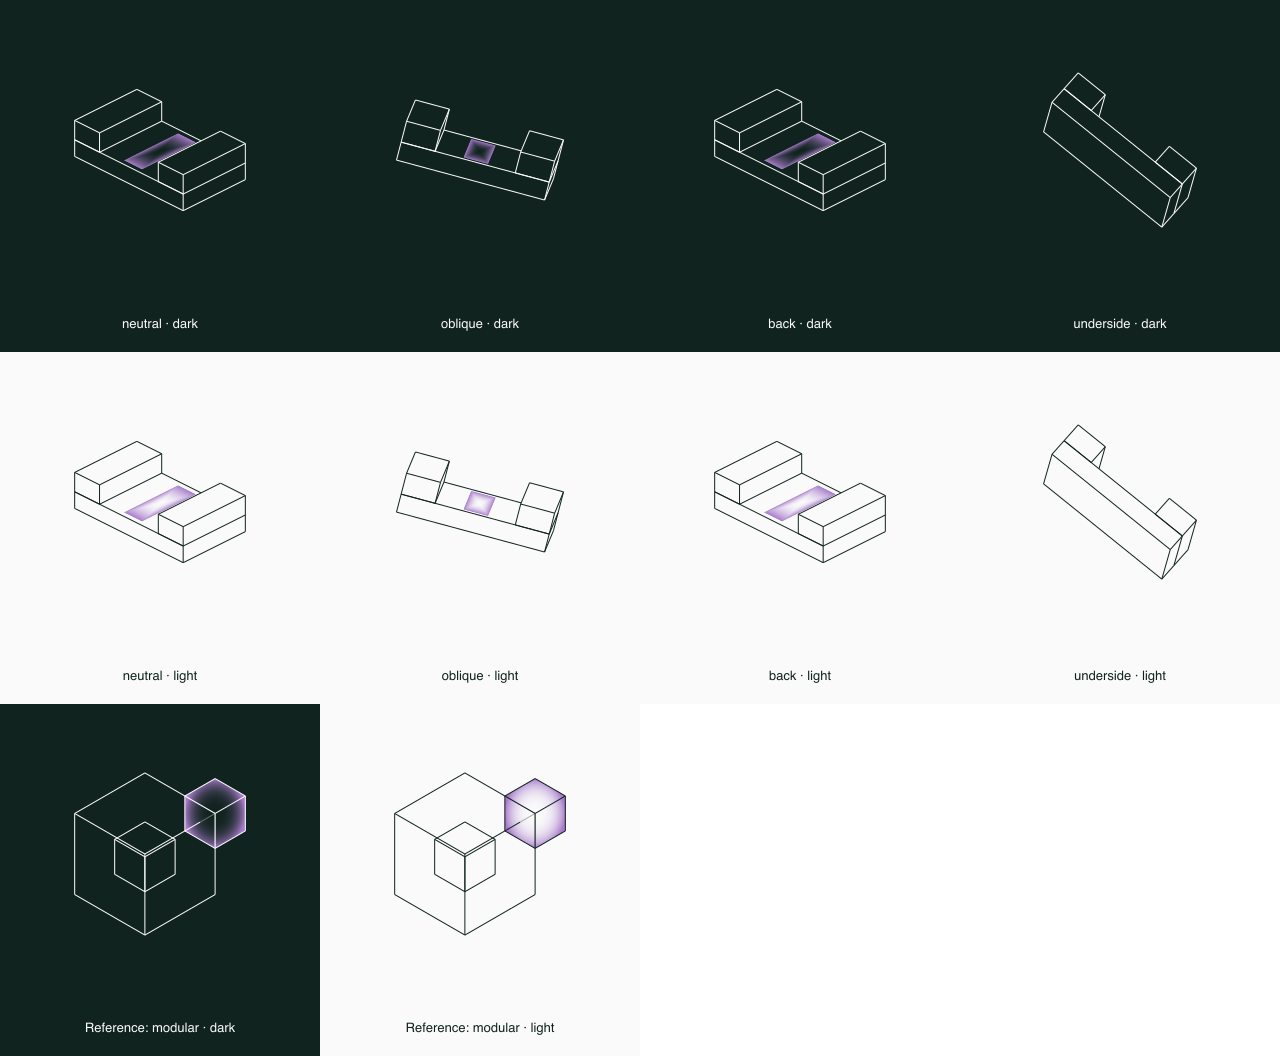
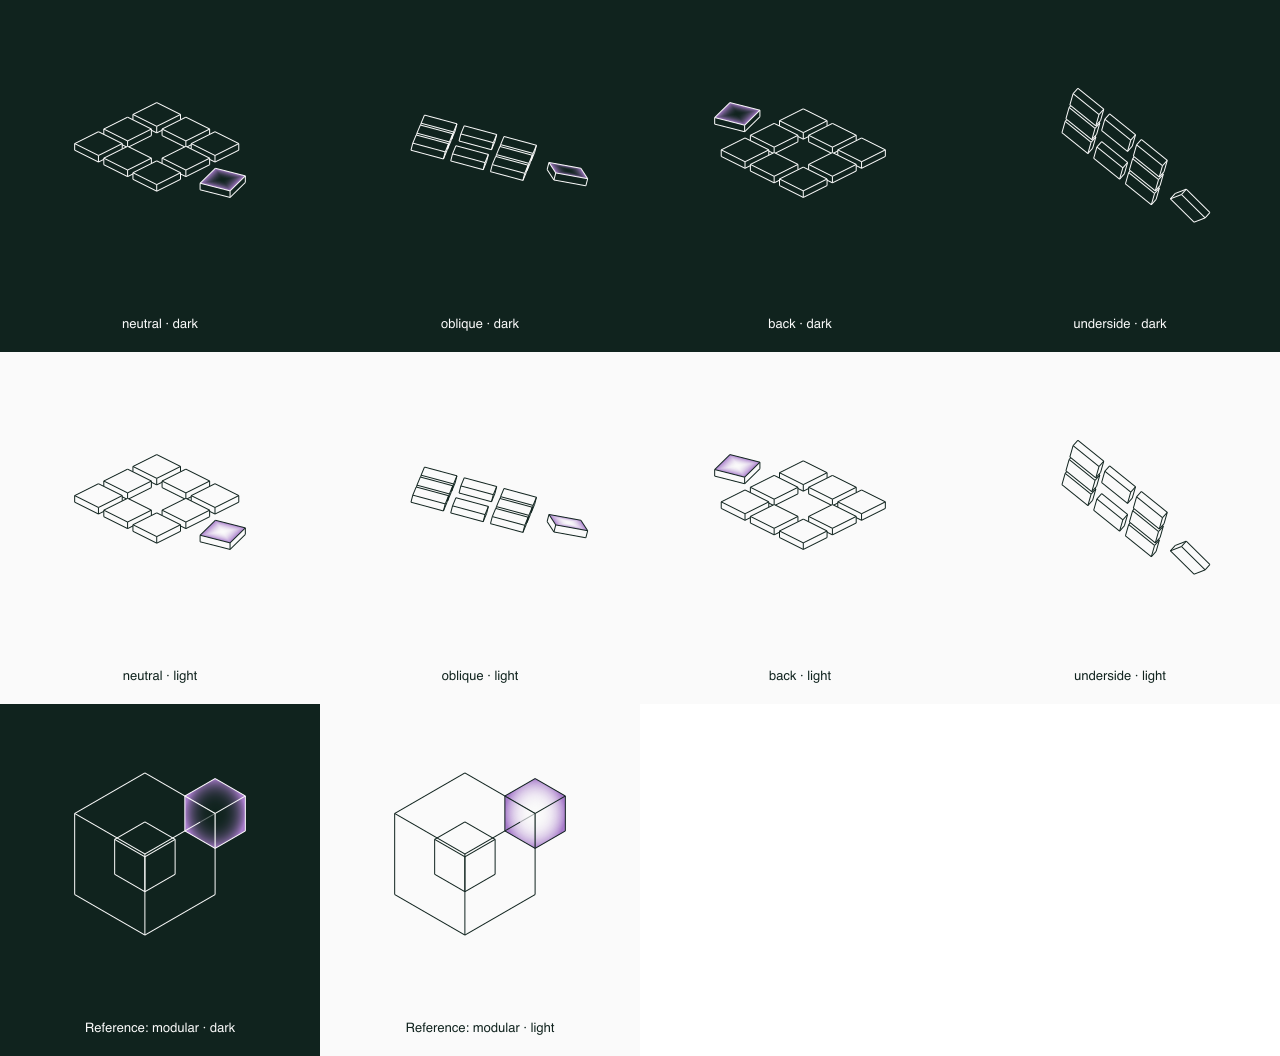
Rework no-shows as coherent abstract geometry

diff --git a/docs/design/blog-illustrations-2026-11-17/no-shows/decision.md b/docs/design/blog-illustrations-2026-11-17/no-shows/decision.md
@@ -1,11 +1,19 @@
-# The reminder went out. The chair stayed empty.
+# No-shows — a missing place in a regular pattern
 
-Selected abstract concept: two occupied end positions stand on one continuous plinth, leaving a conspicuous reserved middle bay empty. The floor of that vacancy is the single highlighted region. The space is physically empty: no floating tile, missing cube hovering nearby, chair or calendar symbol. This follows the user's latest abstract direction.
+The user rejected the earlier plinth and empty bay. This replacement keeps the abstract direction but makes absence immediate: eight equal thick tiles establish a three-by-three pattern around a genuinely open middle position. One matching highlighted tile sits outside the pattern, slightly turned. There is no plinth, backing sheet, literal chair or calendar.
 
-Source: https://atomsai.com/resources/blog/no-shows; the imported body describes appointments that stay empty despite reminders. The superseded literal chair is retained in `recipe.chair-superseded.mjs`; the former aperture-and-tile concept remains rejected.
+The article concerns a reserved appointment that remains unfilled. The regular pattern establishes what should be present; the open middle position shows what is missing. The separate matching piece makes its relationship to that position clear without labels or explanatory symbols.
 
-Geometry: three complete rectangular solids. The 192 × 110 plinth is 24 units thick. Two equal 44-unit-wide, 28-unit-high ends sit directly on its top, leaving a 104-unit-wide empty bay. The reserved floor highlight is a 32 × 96 region on the actual plinth surface. It has generous physical margins to the raised ends, deliberately preventing projected fill overlap in the neutral, oblique and reverse views; it is not an additional object.
+## Geometry
 
-Validation: all eight mechanical export checks passed. Inspected the final Dark/Light contact sheet in neutral, oblique, back and underside views. The vacant region stays open and clearly separated from the occupied ends. Highlight margins remain clear and no fill-through-wall artifact is visible. Underside removes the upward-facing highlight correctly. Solid attachments and matching heights remain coherent under rotation. Assertions verify both ends meet the exact plinth plane, equal occupied dimensions, a real wide central gap and a focal region confined to exposed floor.
+All nine solids are 40 × 40 × 9 in actual world dimensions. Grid centers are spaced 49 units apart, retaining consistent nine-unit gaps. The middle position contains no box, surface or backing geometry. Its open region is large enough to accept the displaced tile with the same surrounding gaps as the rest of the grid.
 
-Parent retains the approved v2 fields, Paper outlines, Cream accents, direct SVG, 4:3 framing and thinner 1.6 line weight. Skill review exports retain the diagnostic palette. Selected geometric master: `review/neutral-dark.svg`.
+The matching loose tile is centered at `[116, 0, 5]` and rigidly turned 18 degrees around Y. Its nearest X extent stays more than 20 units clear of the regular grid, so it cannot intersect or touch its neighbors. Every tile shares the same true support plane. Only the loose tile's actual top face is highlighted; every other surface is coplanar with or behind that face. Whenever its fill is visible, sibling geometry cannot cover it or suffer fill-through.
+
+## Review
+
+Rendered and inspected all eight neutral, oblique, back and underside views in Dark and Light using the unchanged supplied renderer. Neutral and reverse views show the open middle clearly. The low oblique view naturally compresses the horizontal arrangement, while retaining complete independent solids and real thickness; the underside also retains correct geometry. The highlight disappears when the top face turns away. No intersecting tiles, accidental contacts, floating backing, duplicate seams or highlight bleed was observed.
+
+Also rendered and inspected `review/thumbnail-280.png`, a review-only 280 × 210 preview with the approved Iris background, Paper outlines, Cream highlight, central square framing and 1.6-unit linework. At that target size the empty center remains visible, grid gaps stay open, and the displaced highlighted tile is clearly separate. The repeated structure reads as one regular pattern rather than unrelated silhouette clutter. The parent inspected the full contact sheet and approved this direction before final export.
+
+Recipe assertions verify nine equal closed boxes, exact grid positions, the missing center, equal surface heights, regular gaps, loose-piece clearance, and the exposed highlight plane. All eight renderer checks pass. `modular` supplies framing only. Public exports, content maps and Git state are handled by the parent; this task changed only the no-shows recipe, decision record and review files. The earlier plinth review is superseded. No motion or interactive gallery changes were requested.
